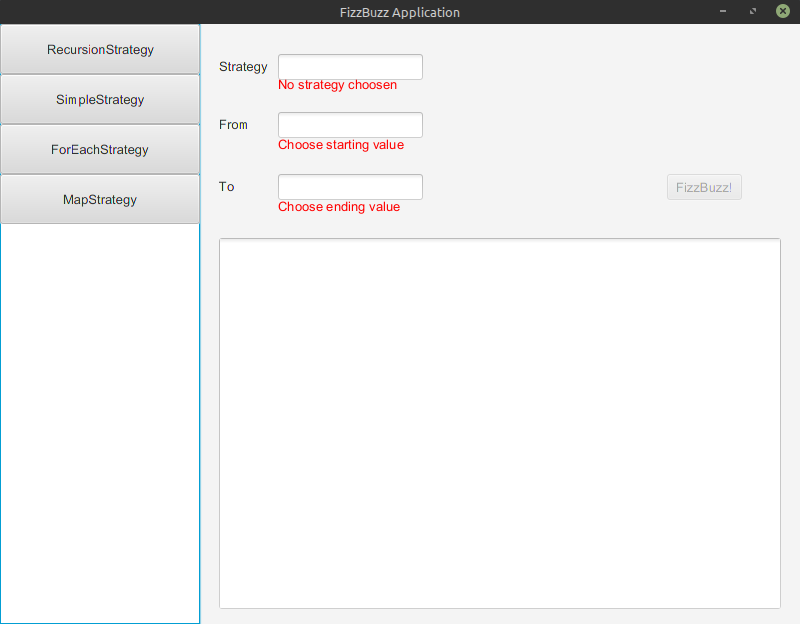
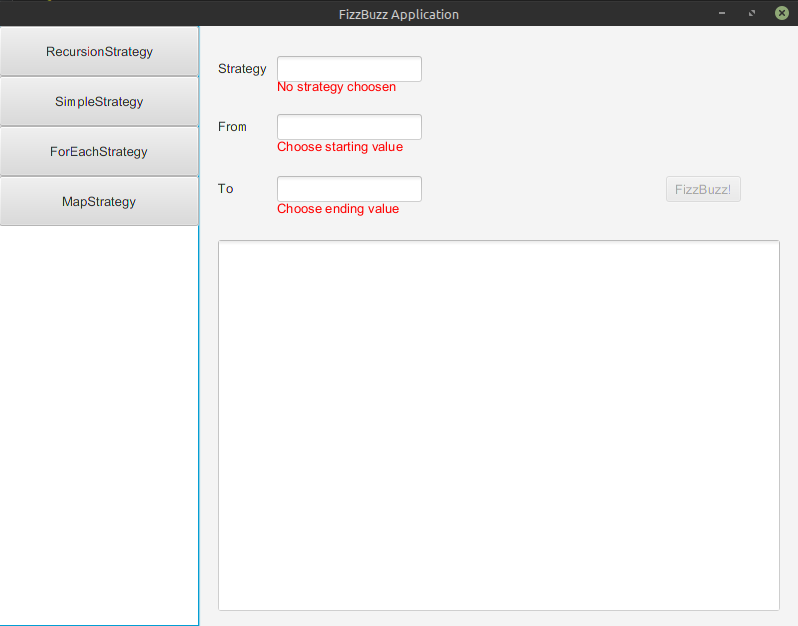
Clear button added, listView new layout

diff --git a/src/agh/edu/pl/rogus/view/fizzBuzzController.java b/src/agh/edu/pl/rogus/view/fizzBuzzController.java
@@ -14,49 +14,48 @@ import javafx.scene.text.Text;
 
 public class fizzBuzzController {
 
+    @FXML
     private FizzBuzzStrategy fizzBuzzStrategy;
 
     @FXML
-    private TextField strategyNameField;
+    public Button recursionStrategyButton;
 
     @FXML
-    private Text noStrategy;
+    public Button simpleStrategyButton;
 
     @FXML
-    private Text noFromValue;
+    public Button forEachStrategyButton;
 
     @FXML
-    private Text noToValue;
+    public Button mapStrategyButton;
+
+    @FXML
+    private Text strategyNameField;
 
     @FXML
     private TextField fromField;
 
     @FXML
+    private Text noFromValue;
+
+    @FXML
     private TextField toField;
+
+    @FXML
+    private Text noToValue;
 
     @FXML
     private Button fizzBuzzButton;
 
     @FXML
-    private Button recursionStrategyButton;
-
-    @FXML
-    private Button simpleStrategyButton;
-
-    @FXML
-    private Button forEachStrategyButton;
-
-    @FXML
-    private Button mapStrategyButton;
+    private Button clearButton;
 
     @FXML
     private TextArea textArea;
 
     public void initialize() {
 
-        strategyNameField.textProperty().addListener((observable, oldValue, newValue) -> {
-            noStrategy.visibleProperty().set(false);
-        });
+        handleSimpleStrategyButton();
 
         fromField.textProperty().addListener((observable, oldValue, newValue) -> {
             parseIntegerField(noFromValue, newValue);
@@ -67,9 +66,11 @@ public class fizzBuzzController {
         });
 
         fizzBuzzButton.disableProperty().bind(
-                noStrategy.visibleProperty()
-                        .or(noFromValue.visibleProperty())
-                        .or(noToValue.visibleProperty())
+                noFromValue.visibleProperty().or(noToValue.visibleProperty())
+        );
+
+        clearButton.disableProperty().bind(
+                textArea.textProperty().isEmpty()
         );
     }
 
@@ -83,12 +84,12 @@ public class fizzBuzzController {
     }
 
     @FXML
-    public void handleFizzBuzz(ActionEvent actionEvent) {
+    public void handleFizzBuzz() {
         try {
             textArea.clear();
             fizzBuzzStrategy.print(getFieldValue(fromField), getFieldValue(toField), textArea);
         } catch (NullPointerException e) {
-            noStrategy.visibleProperty().set(true);
+            // noStrategy.visibleProperty().set(true);
         }
     }
 
@@ -97,30 +98,35 @@ public class fizzBuzzController {
     }
 
     @FXML
-    public void handleRecursionStrategyButton(ActionEvent actionEvent) {
+    public void handleRecursionStrategyButton() {
         fizzBuzzStrategy = new RecursionStrategy();
         updateStrategyLabel();
     }
 
     @FXML
-    public void handleSimpleStrategyButton(ActionEvent actionEvent) {
+    public void handleSimpleStrategyButton() {
         fizzBuzzStrategy = new SimpleStrategy();
-        updateStrategyLabel();;
+        updateStrategyLabel();
     }
 
     @FXML
-    private void handleForEachStrategyButton(ActionEvent actionEvent) {
+    private void handleForEachStrategyButton() {
         fizzBuzzStrategy = new ForEachStrategy();
         updateStrategyLabel();
     }
 
     @FXML
-    private void handleMapStrategyButton(ActionEvent actionEvent) {
+    private void handleMapStrategyButton() {
         fizzBuzzStrategy = new MapStrategy();
         updateStrategyLabel();
     }
 
     private void updateStrategyLabel() {
         strategyNameField.setText(fizzBuzzStrategy.getClass().getSimpleName());
+    }
+
+    @FXML
+    private void clearTextArea() {
+        textArea.clear();
     }
 }
